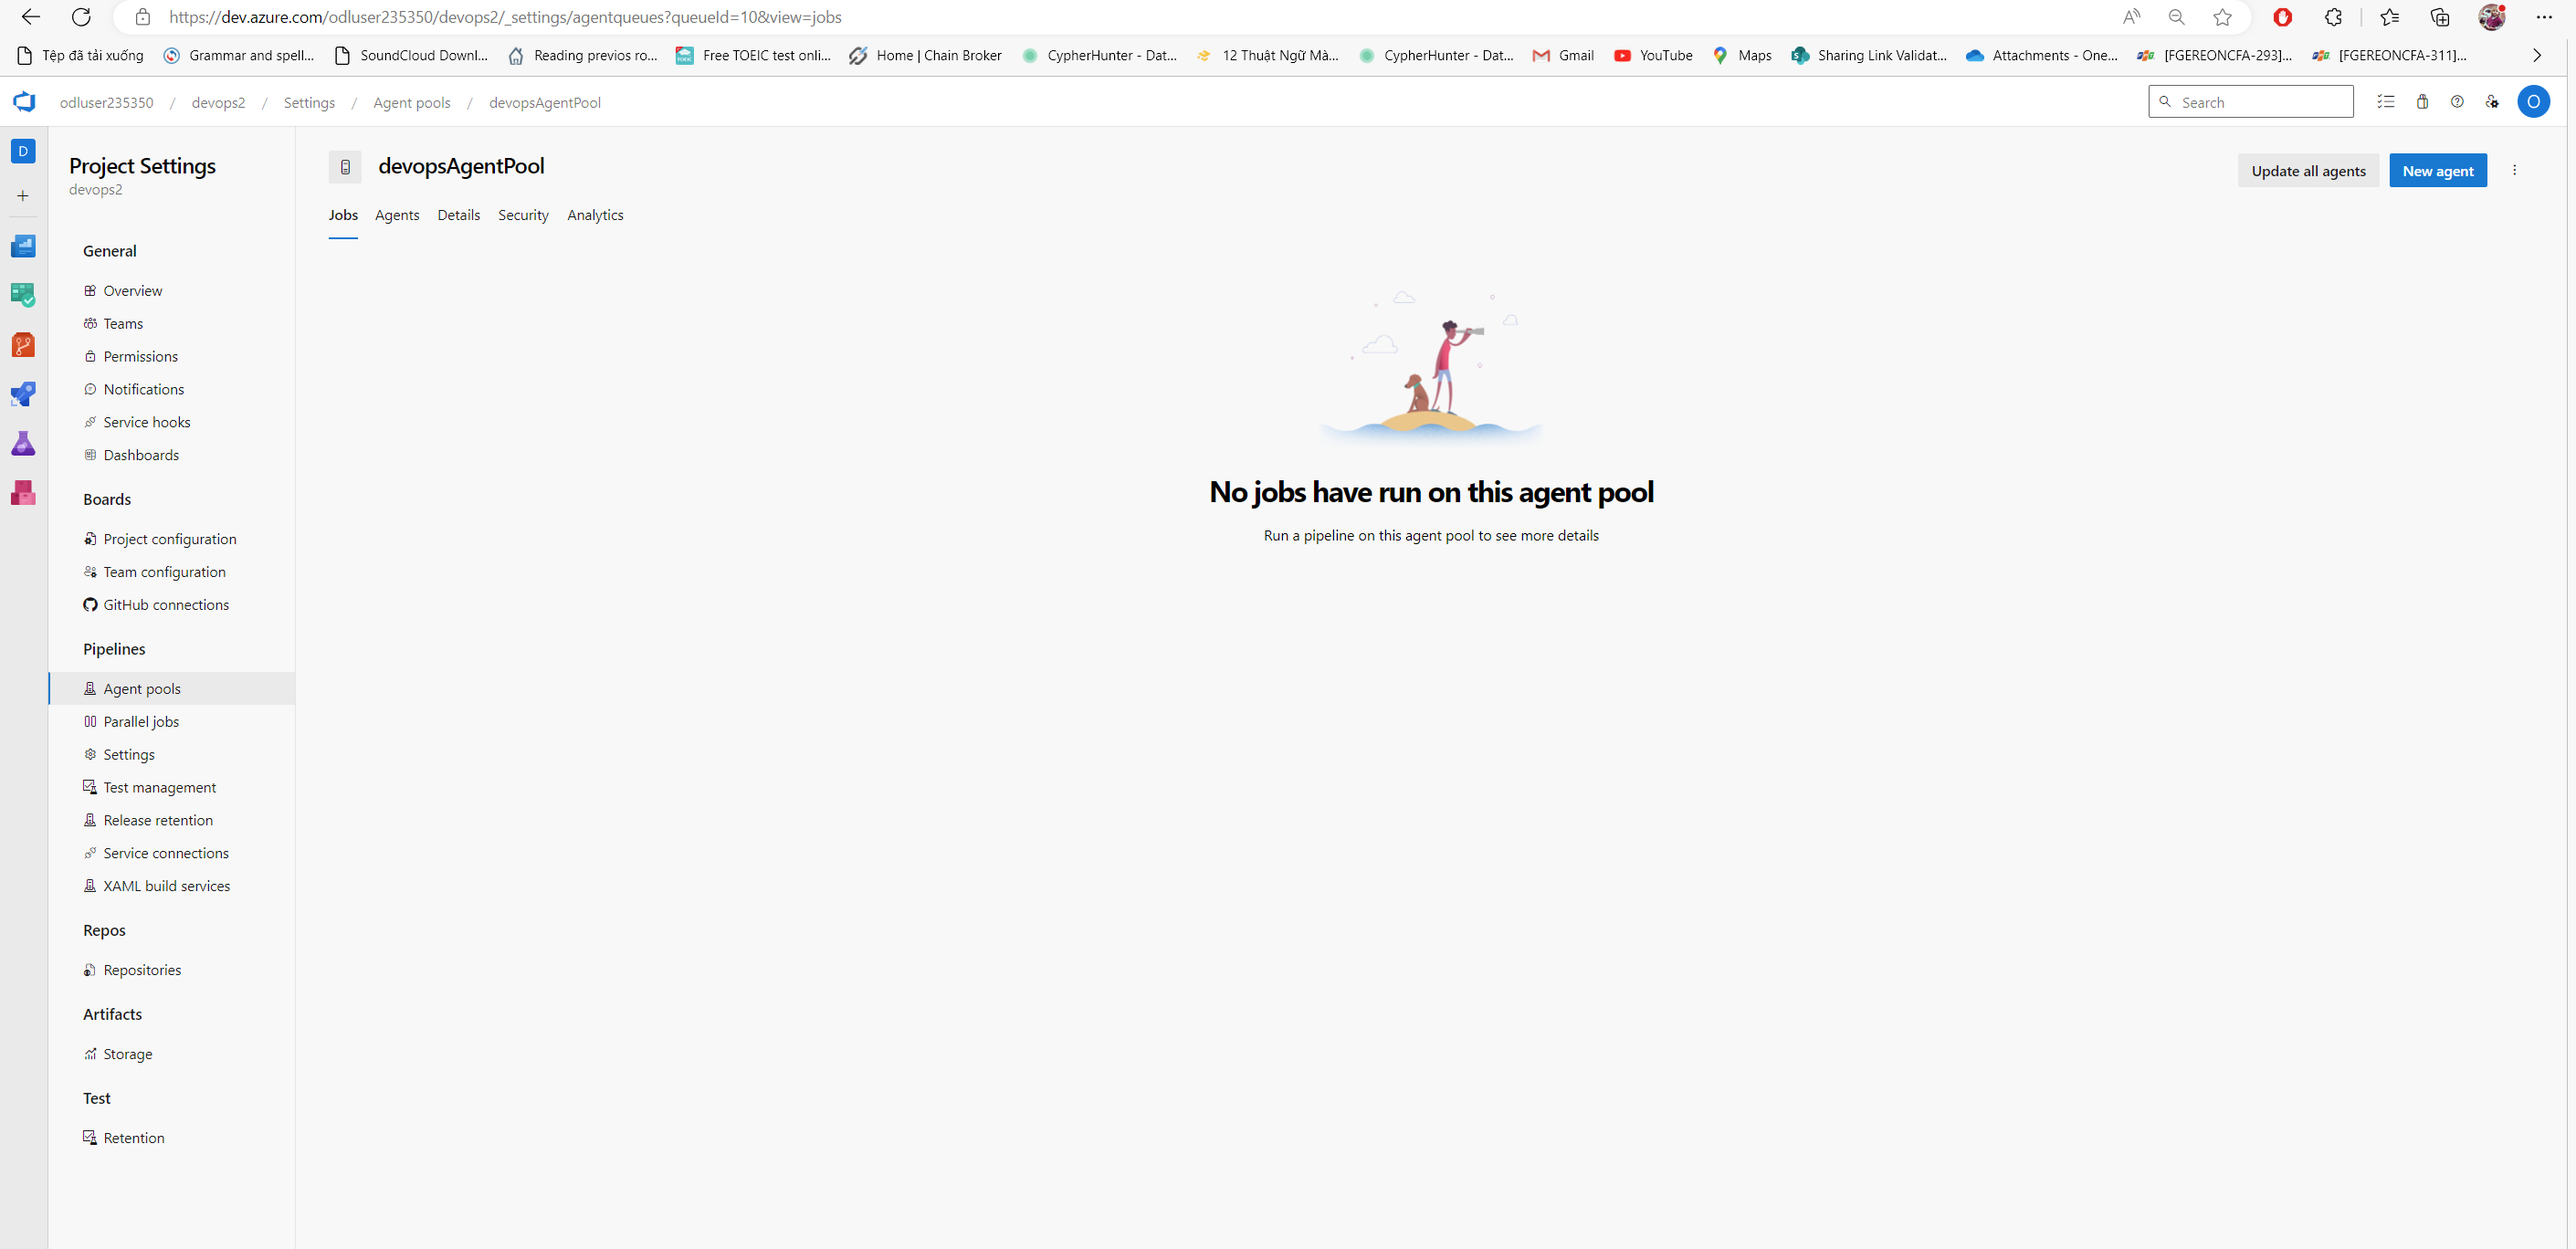
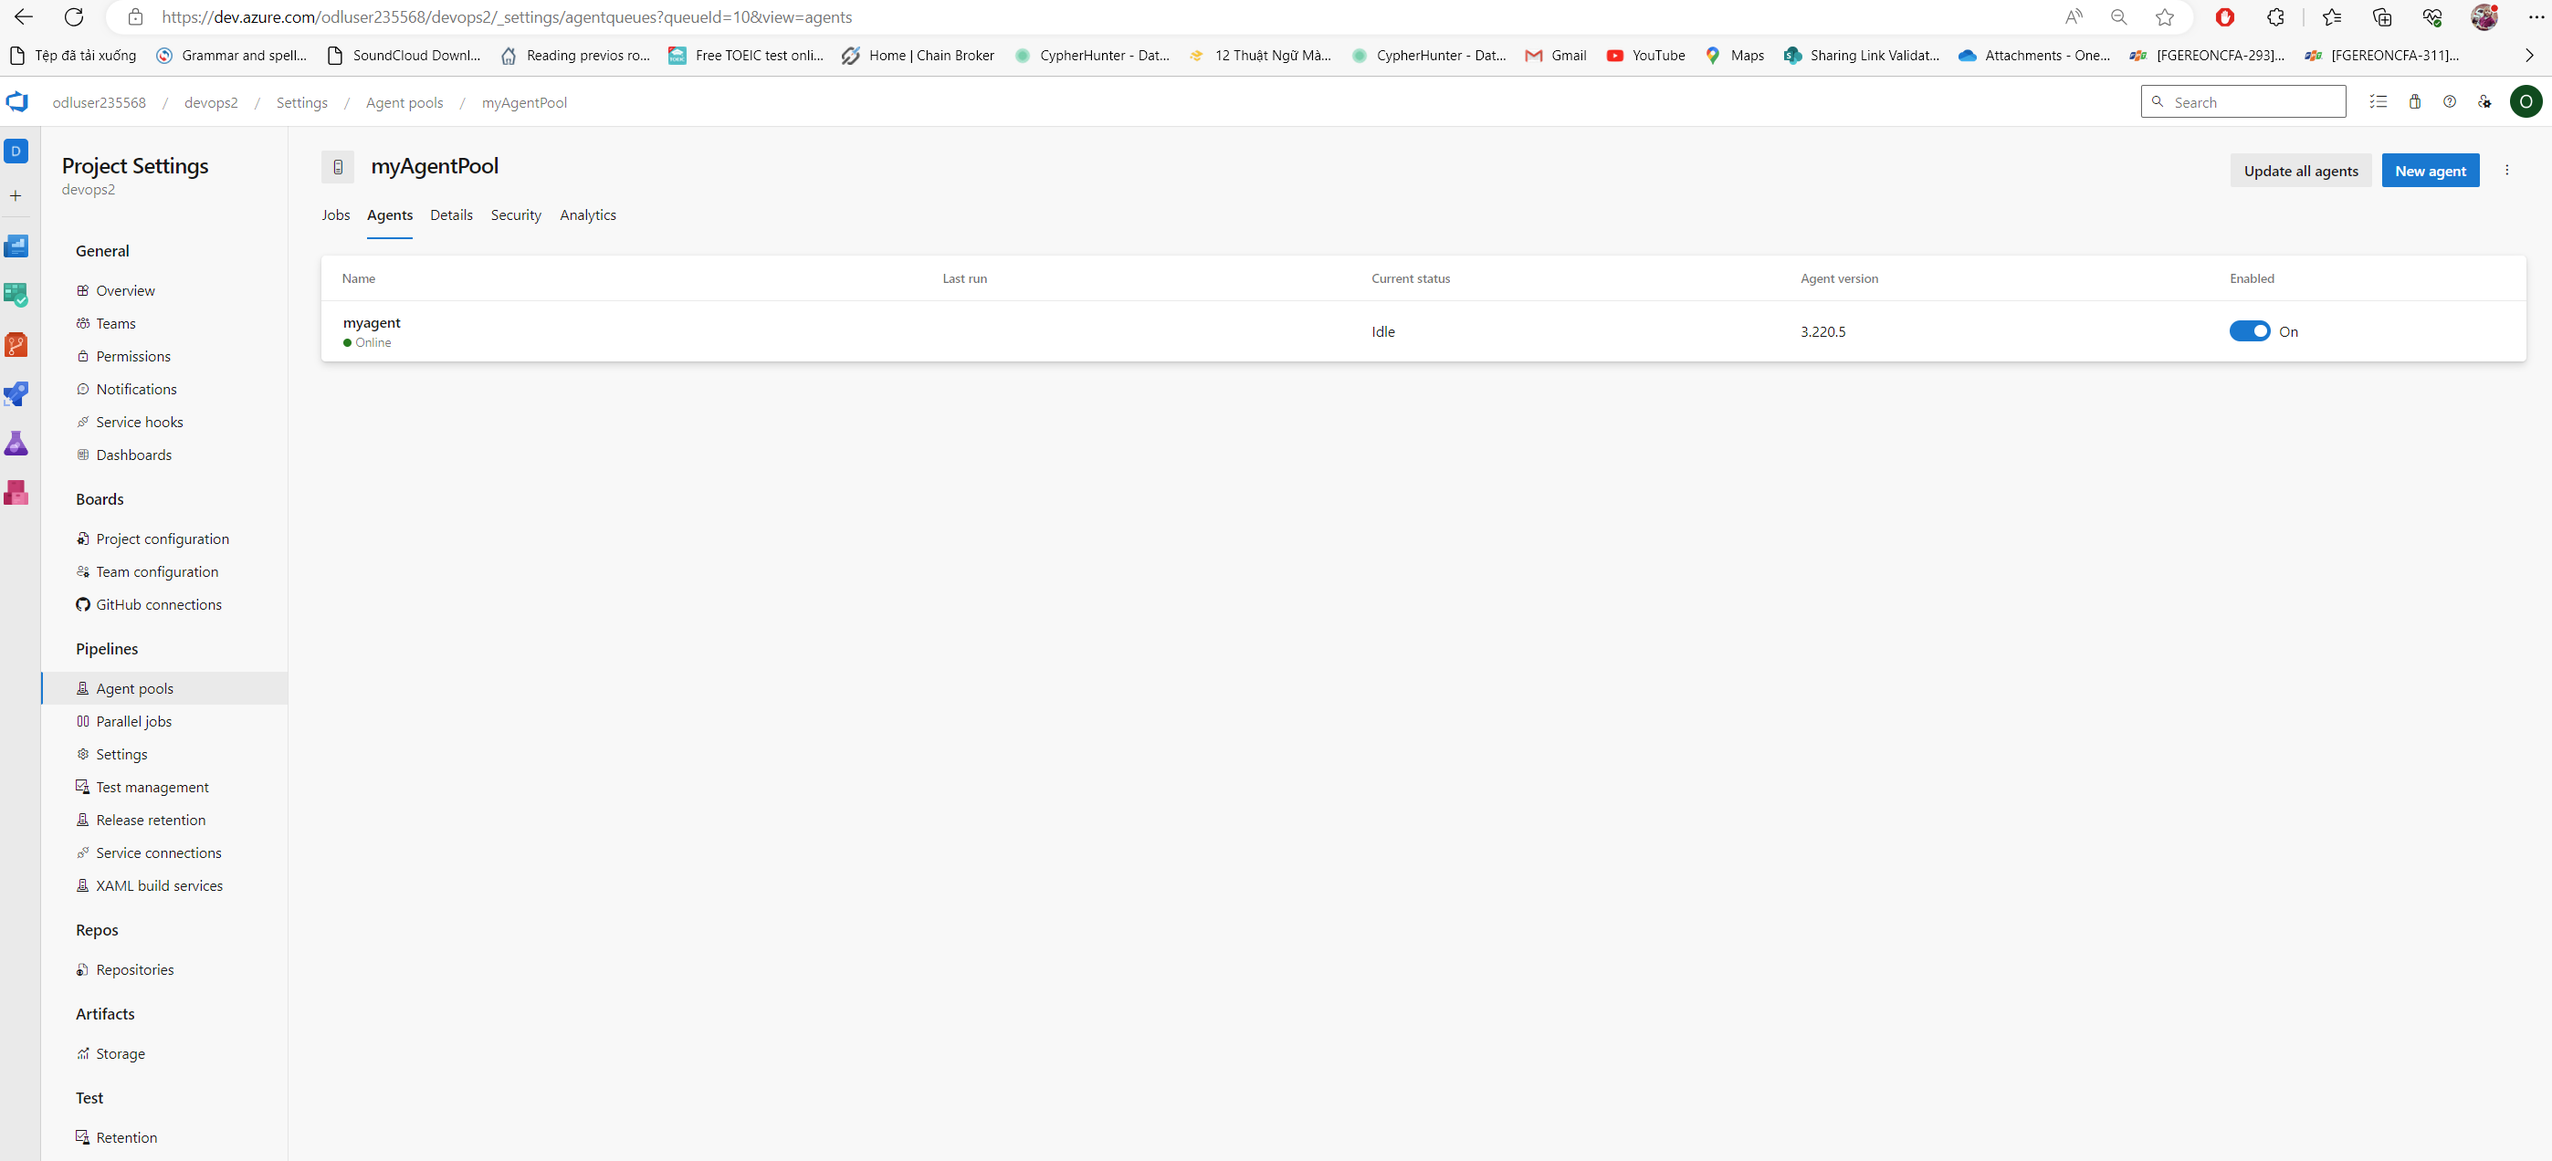
update pipeline

diff --git a/README.md b/README.md
@@ -43,12 +43,17 @@
     - Run your app using command:
         python app.py
     - Create Azure WebApp Service using command:
-        az webapp up --name flaskappduypq5 --resource-group Azuredevops --sku B1 --logs --runtime "PYTHON:3.9"
+        az webapp up --name flaskappduypq5 --resource-group Azuredevops --sku B1 --logs --runtime PYTHON:3.9
         result: https://flaskappduypq5.azurewebsites.net/
     - Run prediction against a working devloyed Azure Application using command:
+        chmod +xr make_predict_azure_app.sh
         ./make_predict_azure_app.sh
-    - Result of created Azure WebApp Service: 
-    - Result of make prediction: 
+    - Trace streamed log files from deployed application
+	    az webapp log tail -g Azuredevops --name flaskappduypq5
+    - Result of created Azure WebApp Service: https://github.com/duypq154/devops2/blob/main/output/Deploy_WebAppService_Result.png
+    - Result of make prediction: https://github.com/duypq154/devops2/blob/main/output/Make_prediction_azure_app_result.png
+    - Result of log tail: https://github.com/duypq154/devops2/blob/main/output/Webapp_LogTail_Result.png
+
     - Logged into the https://portal.azure.com/
     - Created a DevOps org at https://dev.azure.com/
     - Created a DevOps publish project: GO to Organization setting => Policies => Allow public project => create your public project
@@ -57,7 +62,7 @@
     - Create your self-hosted Agent Pool: Go to the Project Settings => Agent pools and add a new agent pool, say myAgentPool
     - Create an Agent (VM): Using Azure UI to create a default VM quickly
     - Connect to your VM using command:
-        ssh duypq5@20.68.168.236
+        ssh myagent@(Your VM public IP)
     - Install docker in your VM using command:
         sudo snap install docker
     - Upgrade your python using command:
@@ -69,8 +74,12 @@
         restart your VM to apply new setting
     - Create Agent Service:
         Go to Project settings => Agent pools => New Agent
+        ReConnect to your VM using command:
+        ssh myagent@(Your VM public IP)
         Download your agent pool to VM by command:
              curl -O https://vstsagentpackage.azureedge.net/agent/3.220.5/vsts-agent-linux-x64-3.220.5.tar.gz
+             pwd
+             ls
         Create a new folder and cd to it: 
             mkdir myagent && cd myagent
         Extract agent:
@@ -92,7 +101,14 @@
             export PATH=$HOME/.local/bin:$PATH
             echo $PATH
             which pylint
-        Result of agent service: 
+        Result of agent service: https://github.com/duypq154/devops2/blob/main/output/Agent_Pool.png
     - Create a PipeLine: 
+        Go back to your devops project => Pipeline => Create Pipeline => GitHub ==> Choose your Repo
+        Result of Pipeline run: https://github.com/duypq154/devops2/blob/main/output/Pipeline_result.png
+    - Add more Jobs to the Pipeline:
+        Install zip into your VM to run pipeline Archive file:
+            sudo apt-get -y install zip
+        Result of Pipeline:
+    
 
 [![Python application test with Github Actions](https://github.com/duypq154/devops2/actions/workflows/pythonapp.yml/badge.svg)](https://github.com/duypq154/devops2/actions/workflows/pythonapp.yml)
